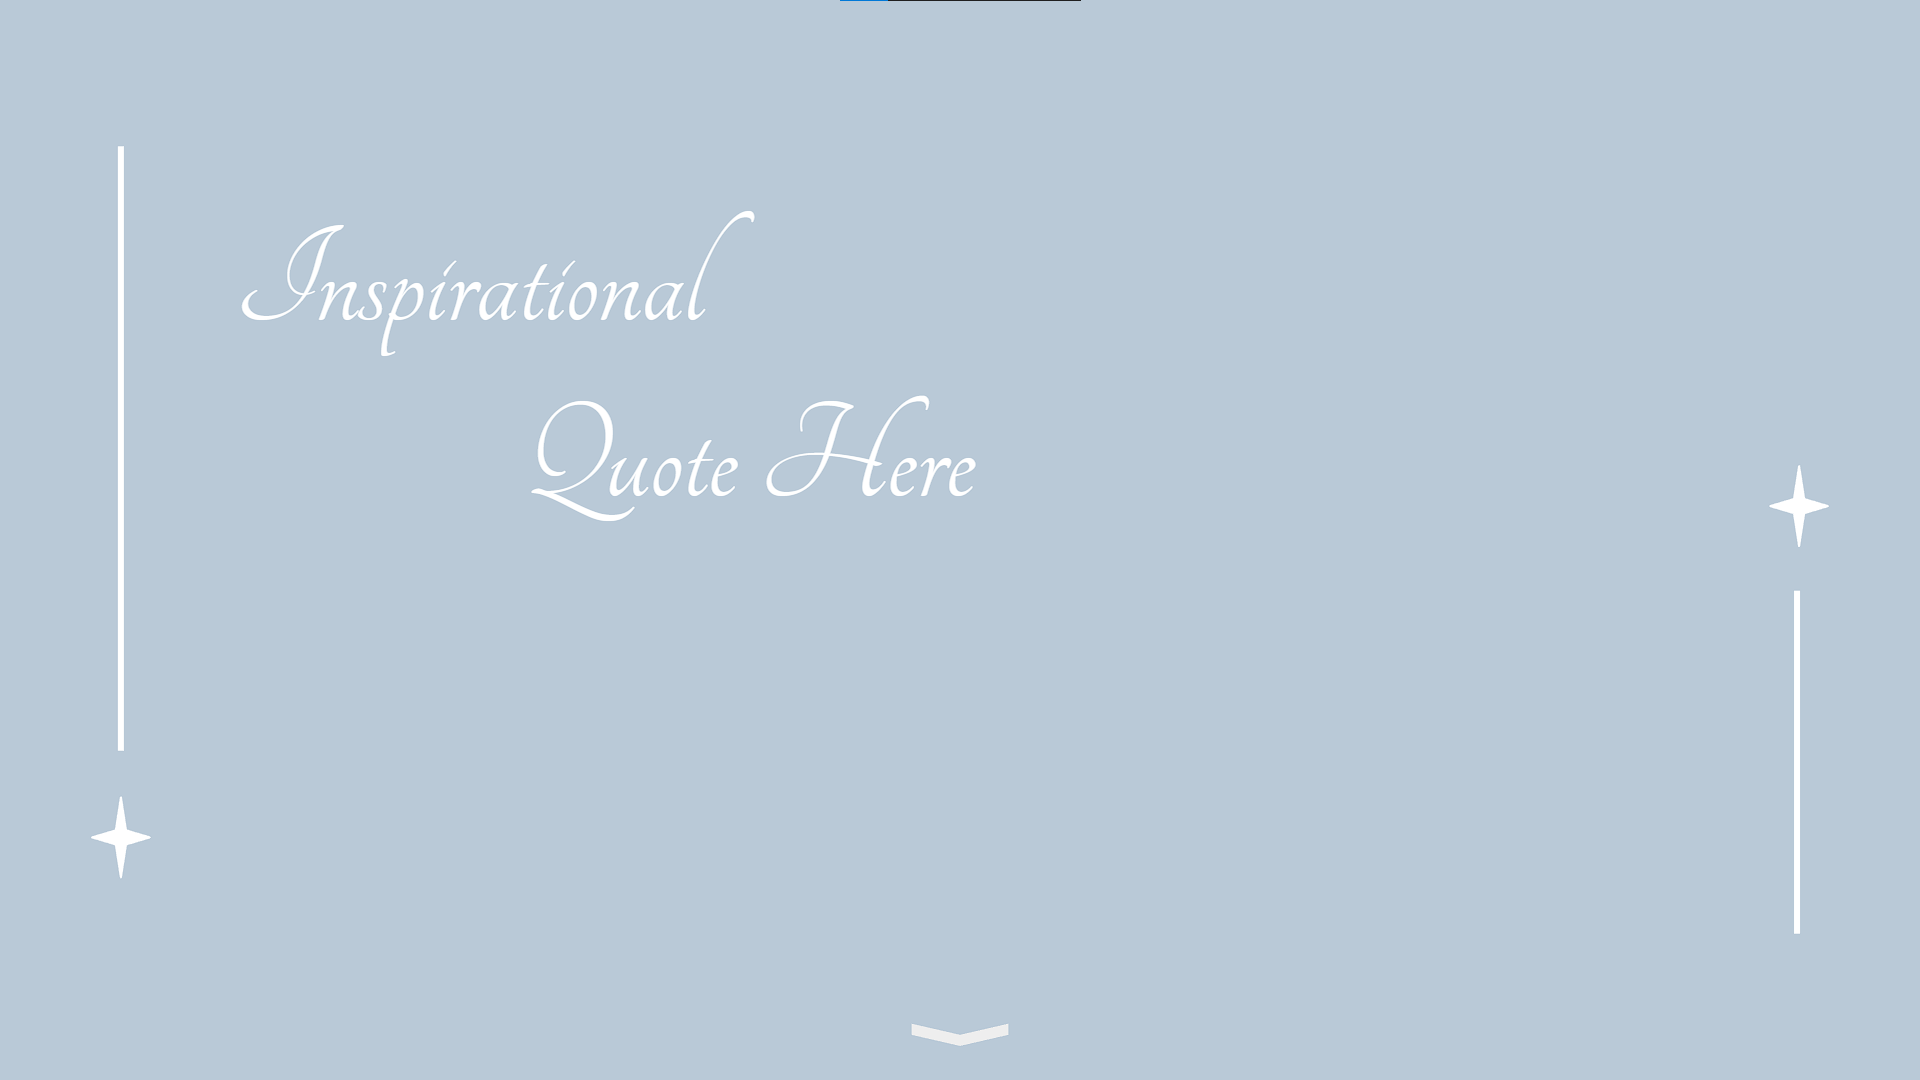
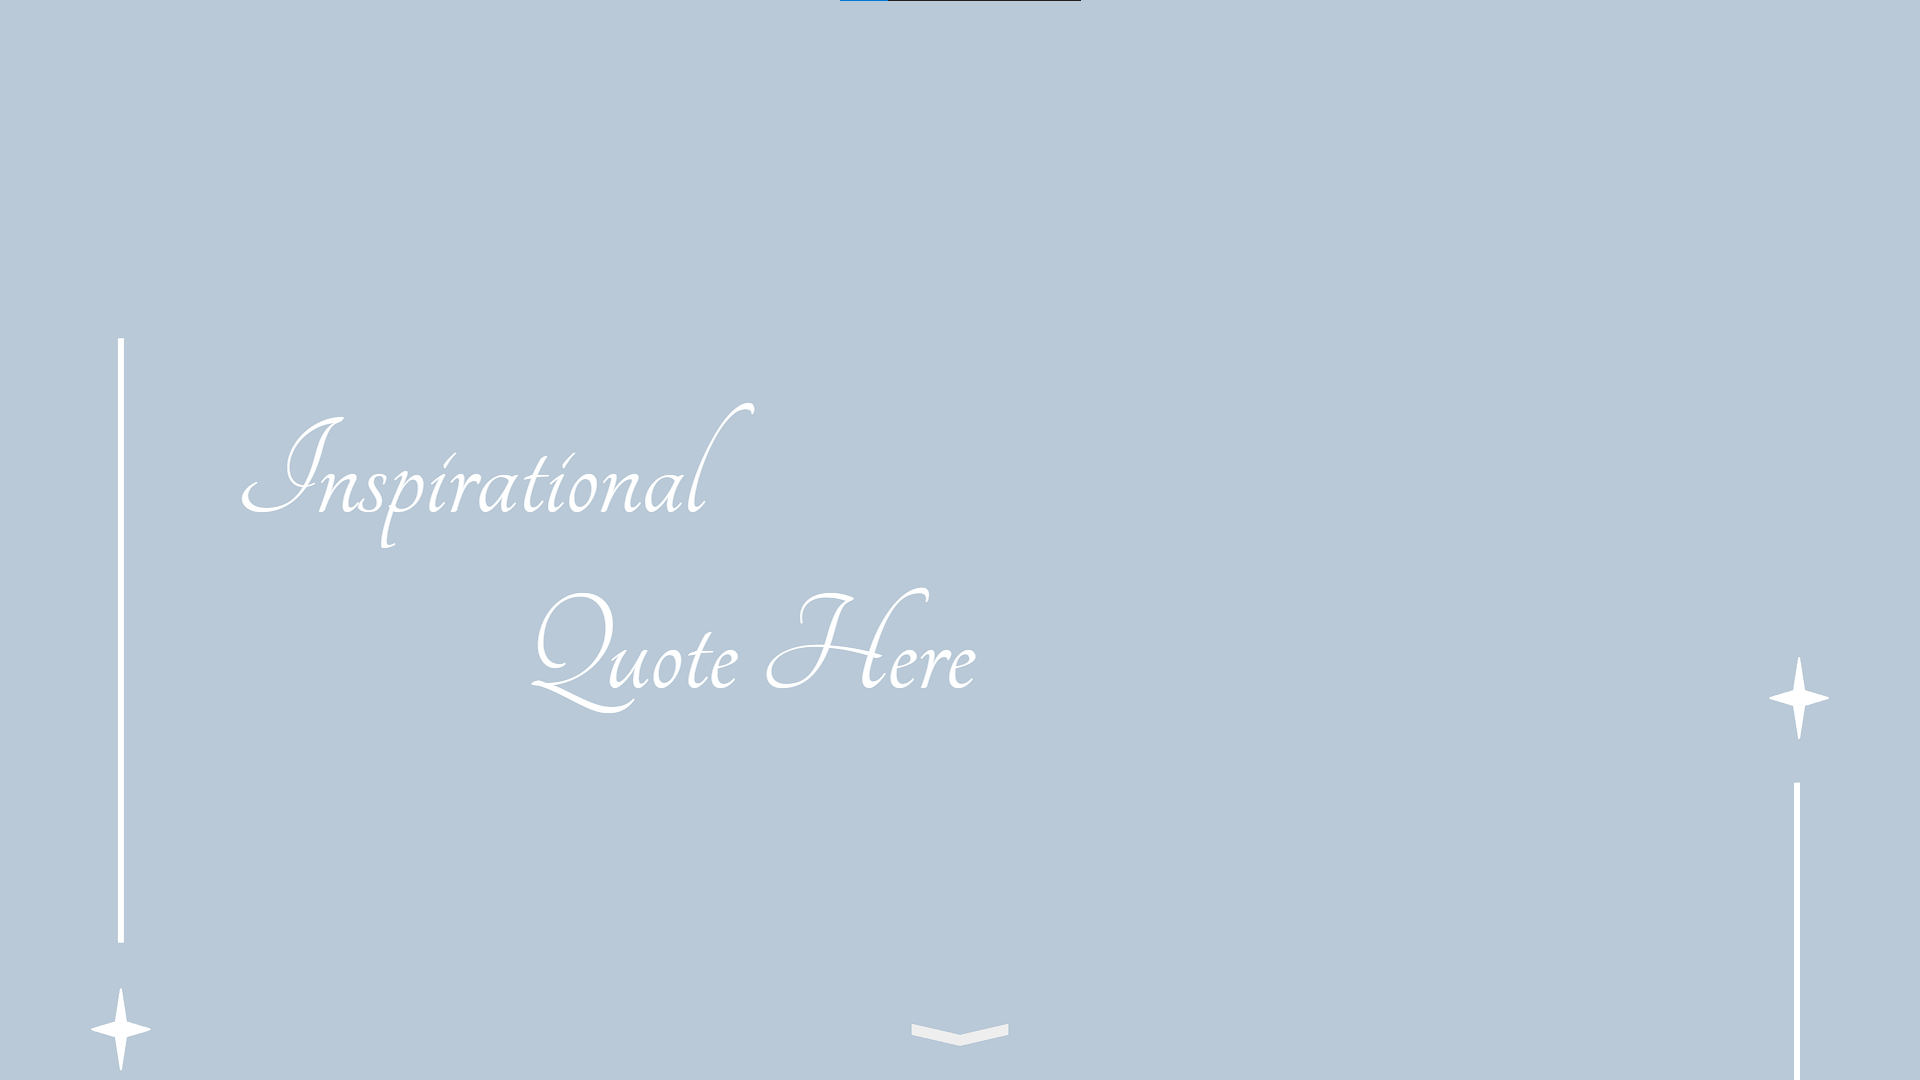
No longer repeats image

diff --git a/index.html b/index.html
@@ -9,7 +9,8 @@
         background-image: url("images/homeBackground.png");
         background-attachment: fixed;
         background-size: contain;
-        background-position-y: 60%;
+        background-position-y: 40%;
+        background-repeat: no-repeat;
     }
 </style>
 <body>
